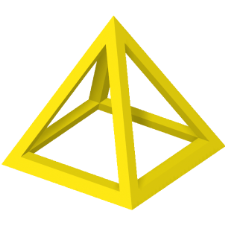
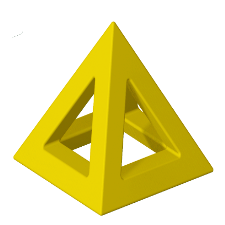
updated pieces in index and game rules

diff --git a/index.html b/index.html
@@ -105,14 +105,14 @@
                 <div class="doc-example">
                     <div class="image-row">
                         <img src="images/pieces/2d/pyramid_open_yellow.png" class="piece" alt="">
-                        <img src="images/pieces/2d/sphere_plus_yellow.png" class="piece" alt="">
+                        <img src="images/pieces/2d/sphere_stripe_yellow.png" class="piece" alt="">
                         <img src="images/pieces/2d/cube_solid_yellow.png" class="piece" alt="">
                     </div>
                     <div class="image-explain">3 x yellow = 1 point</div>
                 </div>
                 <div class="doc-example">
                     <div class="image-row">
-                        <img src="images/pieces/2d/cube_plus_green.png" class="piece" alt="">
+                        <img src="images/pieces/2d/cube_stripe_green.png" class="piece" alt="">
                         <img src="images/pieces/2d/cube_solid_red.png" class="piece" alt="">
                         <img src="images/pieces/2d/cube_open_yellow.png" class="piece" alt="">
                     </div>
@@ -136,9 +136,9 @@
                 </div>
                 <div class="doc-example">
                     <div class="image-row">
-                        <img src="images/pieces/2d/pyramid_plus_red.png" class="piece" alt="">
-                        <img src="images/pieces/2d/cube_plus_yellow.png" class="piece" alt="">
-                        <img src="images/pieces/2d/sphere_plus_green.png" class="piece" alt="">
+                        <img src="images/pieces/2d/pyramid_stripe_red.png" class="piece" alt="">
+                        <img src="images/pieces/2d/cube_stripe_yellow.png" class="piece" alt="">
+                        <img src="images/pieces/2d/sphere_stripe_green.png" class="piece" alt="">
                     </div>
                     <div class="image-explain">3 x plus = 1 point</div>
                 </div>
@@ -156,9 +156,9 @@
                 </div>
                 <div class="doc-example">
                     <div class="image-row">
-                        <img src="images/pieces/2d/pyramid_plus_green.png" class="piece" alt="">
-                        <img src="images/pieces/2d/cube_plus_green.png" class="piece" alt="">
-                        <img src="images/pieces/2d/sphere_plus_green.png" class="piece" alt="">
+                        <img src="images/pieces/2d/pyramid_stripe_green.png" class="piece" alt="">
+                        <img src="images/pieces/2d/cube_stripe_green.png" class="piece" alt="">
+                        <img src="images/pieces/2d/sphere_stripe_green.png" class="piece" alt="">
                     </div>
                     <div class="image-explain">3 x green plus = 2 points</div>
                 </div>
@@ -172,7 +172,7 @@
                 </div>
                 <div class="doc-example">
                     <div class="image-row">
-                        <img src="images/pieces/2d/cube_plus_yellow.png" class="piece" alt="">
+                        <img src="images/pieces/2d/cube_stripe_yellow.png" class="piece" alt="">
                         <img src="images/pieces/2d/cube_solid_yellow.png" class="piece" alt="">
                         <img src="images/pieces/2d/cube_open_yellow.png" class="piece" alt="">
                     </div>

diff --git a/game-rules.html b/game-rules.html
@@ -58,14 +58,14 @@
         <div class="doc-example">
             <div class="image-row">
                 <img src="images/pieces/2d/pyramid_open_yellow.png" class="piece" alt="">
-                <img src="images/pieces/2d/sphere_plus_yellow.png" class="piece" alt="">
+                <img src="images/pieces/2d/sphere_stripe_yellow.png" class="piece" alt="">
                 <img src="images/pieces/2d/cube_solid_yellow.png" class="piece" alt="">
             </div>
             <div class="image-explain">3 x yellow = 1 point</div>
         </div>
         <div class="doc-example">
             <div class="image-row">
-                <img src="images/pieces/2d/cube_plus_green.png" class="piece" alt="">
+                <img src="images/pieces/2d/cube_stripe_green.png" class="piece" alt="">
                 <img src="images/pieces/2d/cube_solid_red.png" class="piece" alt="">
                 <img src="images/pieces/2d/cube_open_yellow.png" class="piece" alt="">
             </div>
@@ -89,9 +89,9 @@
         </div>
         <div class="doc-example">
             <div class="image-row">
-                <img src="images/pieces/2d/pyramid_plus_red.png" class="piece" alt="">
-                <img src="images/pieces/2d/cube_plus_yellow.png" class="piece" alt="">
-                <img src="images/pieces/2d/sphere_plus_green.png" class="piece" alt="">
+                <img src="images/pieces/2d/pyramid_stripe_red.png" class="piece" alt="">
+                <img src="images/pieces/2d/cube_stripe_yellow.png" class="piece" alt="">
+                <img src="images/pieces/2d/sphere_stripe_green.png" class="piece" alt="">
             </div>
             <div class="image-explain">3 x plus = 1 point</div>
         </div>
@@ -109,9 +109,9 @@
         </div>
         <div class="doc-example">
             <div class="image-row">
-                <img src="images/pieces/2d/pyramid_plus_green.png" class="piece" alt="">
-                <img src="images/pieces/2d/cube_plus_green.png" class="piece" alt="">
-                <img src="images/pieces/2d/sphere_plus_green.png" class="piece" alt="">
+                <img src="images/pieces/2d/pyramid_stripe_green.png" class="piece" alt="">
+                <img src="images/pieces/2d/cube_stripe_green.png" class="piece" alt="">
+                <img src="images/pieces/2d/sphere_stripe_green.png" class="piece" alt="">
             </div>
             <div class="image-explain">3 x green plus = 2 points</div>
         </div>
@@ -125,7 +125,7 @@
         </div>
         <div class="doc-example">
             <div class="image-row">
-                <img src="images/pieces/2d/cube_plus_yellow.png" class="piece" alt="">
+                <img src="images/pieces/2d/cube_stripe_yellow.png" class="piece" alt="">
                 <img src="images/pieces/2d/cube_solid_yellow.png" class="piece" alt="">
                 <img src="images/pieces/2d/cube_open_yellow.png" class="piece" alt="">
             </div>
